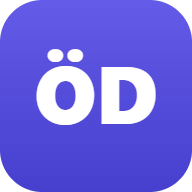
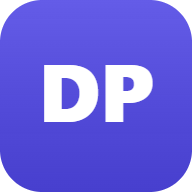
Uygulamanın adını "Ders Planları" yap
Başlık, manifest, iPhone ana ekran adı, varsayılan kurum adı ve
simgeler (ÖD -> DP) güncellendi. Service worker artık kendi dosyalarını
HTTP önbelleğini atlayıp sunucuya sorarak alıyor; güncellemeler yüklü
uygulamaya gecikmeden geliyor.

Changed region(s): [[0.1875, 0.25, 0.8125, 0.6562], [0.2812, 0.4062, 0.4375, 0.5938], [0.4375, 0.5938, 0.4688, 0.625]]

diff --git a/js/app.js b/js/app.js
@@ -20,7 +20,7 @@ function aktifSayfa() {
 
 function render() {
   const app = $('#app');
-  document.title = Oturum.durum === 'hazir' ? DB.ayarlar().kurumAdi : 'Özel Ders Programı';
+  document.title = Oturum.durum === 'hazir' ? DB.ayarlar().kurumAdi : 'Ders Planları';
   if (Oturum.durum === 'yukleniyor') return bilgiEkrani(app, '<div class="donen" aria-label="Yükleniyor"></div><p class="soluk">Yükleniyor…</p>');
   if (Oturum.durum === 'giris') return girisEkrani(app);
   if (Oturum.durum === 'kurulum') return kurulumEkrani(app);
@@ -35,7 +35,7 @@ function render() {
   app.innerHTML = `
     <div class="kabuk">
       <aside class="yan">
-        <div class="marka"><span class="logo">ÖD</span><span>${esc(DB.ayarlar().kurumAdi)}</span></div>
+        <div class="marka"><span class="logo">DP</span><span>${esc(DB.ayarlar().kurumAdi)}</span></div>
         <nav>${SAYFALAR.map(s => `<a href="#/${s.id}" class="${s === sayfa ? 'aktif' : ''}" ${s === sayfa ? 'aria-current="page"' : ''}>
           <span class="nav-ikon" aria-hidden="true">${s.ikon}</span><span>${s.ad}</span>${s.id === 'onaylar' && bekleyen ? `<b class="sayac">${bekleyen}</b>` : ''}</a>`).join('')}</nav>
         <div class="kullanici">
@@ -54,7 +54,7 @@ function render() {
 }
 
 function kartEkrani(app, icerik) {
-  app.innerHTML = `<div class="giris"><div class="giris-kart"><span class="logo buyuk">ÖD</span>${icerik}</div></div>`;
+  app.innerHTML = `<div class="giris"><div class="giris-kart"><span class="logo buyuk">DP</span>${icerik}</div></div>`;
   return $('.giris-kart', app);
 }
 
@@ -68,7 +68,7 @@ function girisEkrani(app) {
   const ciz = () => {
     const kart = kartEkrani(app, `
       <h1>${kayit ? 'Hesap oluştur' : 'Giriş yap'}</h1>
-      ${Oturum.davetVar ? '<div class="kutu bilgi">Bir kuruma davet edildiniz. Hesap oluşturun ya da mevcut hesabınızla giriş yapın; kuruma otomatik katılacaksınız.</div>' : '<p class="soluk">Özel ders takvimine e-posta ve şifrenizle girin.</p>'}
+      ${Oturum.davetVar ? '<div class="kutu bilgi">Bir kuruma davet edildiniz. Hesap oluşturun ya da mevcut hesabınızla giriş yapın; kuruma otomatik katılacaksınız.</div>' : '<p class="soluk">Ders takvimine e-posta ve şifrenizle girin.</p>'}
       <form class="form tek" id="giris-form">
         <label>E-posta<input name="eposta" type="email" autocomplete="email" required></label>
         <label>Şifre<input name="sifre" type="password" autocomplete="${kayit ? 'new-password' : 'current-password'}" minlength="6" required></label>
@@ -121,7 +121,7 @@ function kurulumEkrani(app) {
     <h2 class="bolum">Yeni kurum oluştur</h2>
     <p class="soluk kucuk-yazi">Kurumun yöneticisi siz olursunuz; diğer öğretmenleri davet linkiyle eklersiniz.</p>
     <form class="form tek" id="kurulum">
-      <label>Kurum / program adı<input name="kurumAdi" placeholder="Örn. Kaya Özel Ders"></label>
+      <label>Kurum / program adı<input name="kurumAdi" placeholder="Örn. Kaya Eğitim"></label>
       <label>Adınız soyadınız *<input name="ad" required autocomplete="name"></label>
       <div class="form-hata-yer"></div>
       <button class="btn birincil genis-btn" type="submit">Kurumu oluştur</button>

diff --git a/sw.js b/sw.js
@@ -2,12 +2,12 @@
 // Kendi dosyalarımız için "önce ağ" kullanılır, böylece yeni sürümler hemen gelir.
 // Firebase SDK dosyaları sürüm numaralı olduğu için "önce önbellek" kullanılır.
 // Veritabanı ve giriş istekleri (googleapis.com) hiç önbelleğe alınmaz.
-const ONBELLEK = 'ozel-ders-v1';
+const ONBELLEK = 'ders-planlari-v3';
 const KABUK = [
   './', 'index.html', 'manifest.webmanifest', 'css/style.css',
   'js/util.js', 'js/db.js', 'js/yetki.js', 'js/ders.js', 'js/ui.js', 'js/takvim.js', 'js/liste.js',
   'js/yonetim.js', 'js/rapor.js', 'js/demo.js', 'js/app.js', 'js/bulut.js', 'js/firebase-config.js',
-  'icons/icon-192.png', 'icons/icon-512.png',
+  'icons/icon-192.png', 'icons/icon-512.png', 'icons/apple-touch-icon.png',
 ];
 
 self.addEventListener('install', e => {
@@ -26,7 +26,8 @@ self.addEventListener('fetch', e => {
   const url = new URL(istek.url);
 
   if (url.origin === location.origin) {
-    e.respondWith(fetch(istek).then(yanit => {
+    // no-cache: tarayıcının HTTP önbelleği yerine sunucuya sorulur (GitHub Pages 10 dk önbellekler).
+    e.respondWith(fetch(istek, { cache: 'no-cache' }).then(yanit => {
       if (yanit.ok) { const kopya = yanit.clone(); caches.open(ONBELLEK).then(c => c.put(istek, kopya)); }
       return yanit;
     }).catch(() => caches.match(istek, { ignoreSearch: true }).then(y => y || caches.match('index.html'))));

diff --git a/index.html b/index.html
@@ -4,13 +4,13 @@
   <meta charset="utf-8">
   <meta name="viewport" content="width=device-width, initial-scale=1, viewport-fit=cover">
   <meta name="theme-color" content="#4f46e5">
-  <title>Özel Ders Programı</title>
+  <title>Ders Planları</title>
   <link rel="icon" type="image/png" sizes="192x192" href="icons/icon-192.png">
   <link rel="manifest" href="manifest.webmanifest">
   <link rel="apple-touch-icon" href="icons/apple-touch-icon.png">
   <meta name="mobile-web-app-capable" content="yes">
   <meta name="apple-mobile-web-app-capable" content="yes">
-  <meta name="apple-mobile-web-app-title" content="Özel Ders">
+  <meta name="apple-mobile-web-app-title" content="Ders Planları">
   <meta name="apple-mobile-web-app-status-bar-style" content="default">
   <link rel="stylesheet" href="css/style.css">
 </head>

diff --git a/js/rapor.js b/js/rapor.js
@@ -126,7 +126,7 @@ function ayarlarView(el, u) {
       const f = formOku($('#ayar-form', el));
       const gunBasi = Math.min(23, Math.max(0, Number(f.gunBasi) || 0));
       const gunSonu = Math.min(24, Math.max(gunBasi + 1, Number(f.gunSonu) || 24));
-      DB.ayarKaydet({ kurumAdi: f.kurumAdi || 'Özel Ders Programı', gunBasi, gunSonu, haftaBasi: Number(f.haftaBasi), varsayilanSure: Number(f.varsayilanSure) || 60, onaySureci: !!f.onaySureci });
+      DB.ayarKaydet({ kurumAdi: f.kurumAdi || 'Ders Planları', gunBasi, gunSonu, haftaBasi: Number(f.haftaBasi), varsayilanSure: Number(f.varsayilanSure) || 60, onaySureci: !!f.onaySureci });
       return bildir('Ayarlar kaydedildi');
     }
     if (act === 'yedek') return dosyaIndir(`ozel-ders-yedek-${bugun()}.json`, DB.disaAktar(), 'application/json');

diff --git a/js/demo.js b/js/demo.js
@@ -5,7 +5,7 @@
 function demoVerisi() {
   const ogr = (id, ad, sinif, veli, telefon) => ({ id, ad, sinif, veli, telefon, veliTelefon: '', eposta: '', okul: '', notlar: '', pasif: false });
   const veri = {
-    ayarlar: { kurumAdi: 'Demo Özel Ders', onaySureci: true, gunBasi: 9, gunSonu: 21, haftaBasi: 1, varsayilanSure: 60 },
+    ayarlar: { kurumAdi: 'Demo Ders Planları', onaySureci: true, gunBasi: 9, gunSonu: 21, haftaBasi: 1, varsayilanSure: 60 },
     ogretmenler: [
       { id: 't1', ad: 'Elif Kaya', rol: 'yonetici', sorumluId: null, brans: 'İngilizce', telefon: '0555 000 00 01', eposta: '', renk: '#4f46e5' },
       { id: 't2', ad: 'Mert Demir', rol: 'ogretmen', sorumluId: 't1', brans: 'Matematik', telefon: '0555 000 00 02', eposta: '', renk: '#059669' },

diff --git a/js/db.js b/js/db.js
@@ -7,7 +7,7 @@ const KOLEKSIYONLAR = ['ogretmenler', 'ogrenciler', 'kategoriler', 'eslesmeler',
 
 const DB = (() => {
   const varsayilanAyarlar = () => ({
-    kurumAdi: 'Özel Ders Programı',
+    kurumAdi: 'Ders Planları',
     onaySureci: false,
     gunBasi: 8,
     gunSonu: 22,

diff --git a/README.md b/README.md
@@ -1,6 +1,6 @@
-# Özel Ders Programı
+# Ders Planları
 
-Özel ders veren öğretmenler için takvim ve ders takip uygulaması. Kurulum gerektirmez; tarayıcıda çalışır, GitHub Pages üzerinden bir linkle açılır ve verileri Firebase bulut veritabanında saklar.
+Ders veren öğretmenler için takvim ve ders takip uygulaması. Kurulum gerektirmez; tarayıcıda çalışır, GitHub Pages üzerinden bir linkle açılır ve verileri Firebase bulut veritabanında saklar.
 
 Canlı adres: https://tugaycel.github.io/ozel-ders/
 
